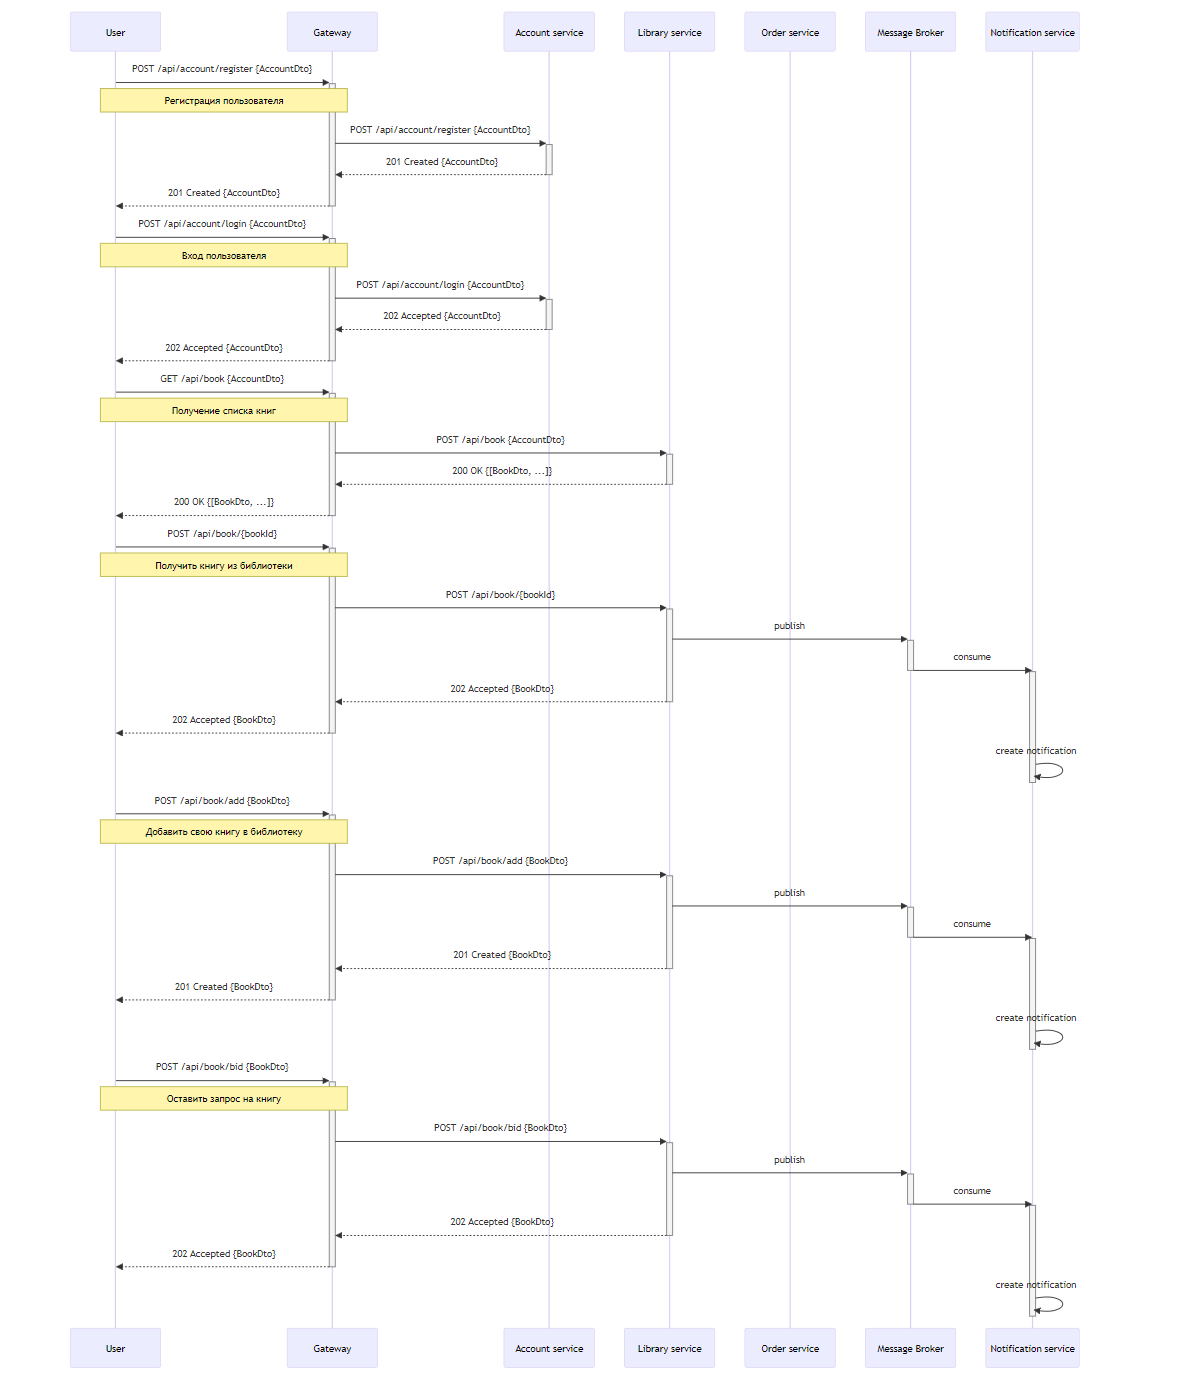
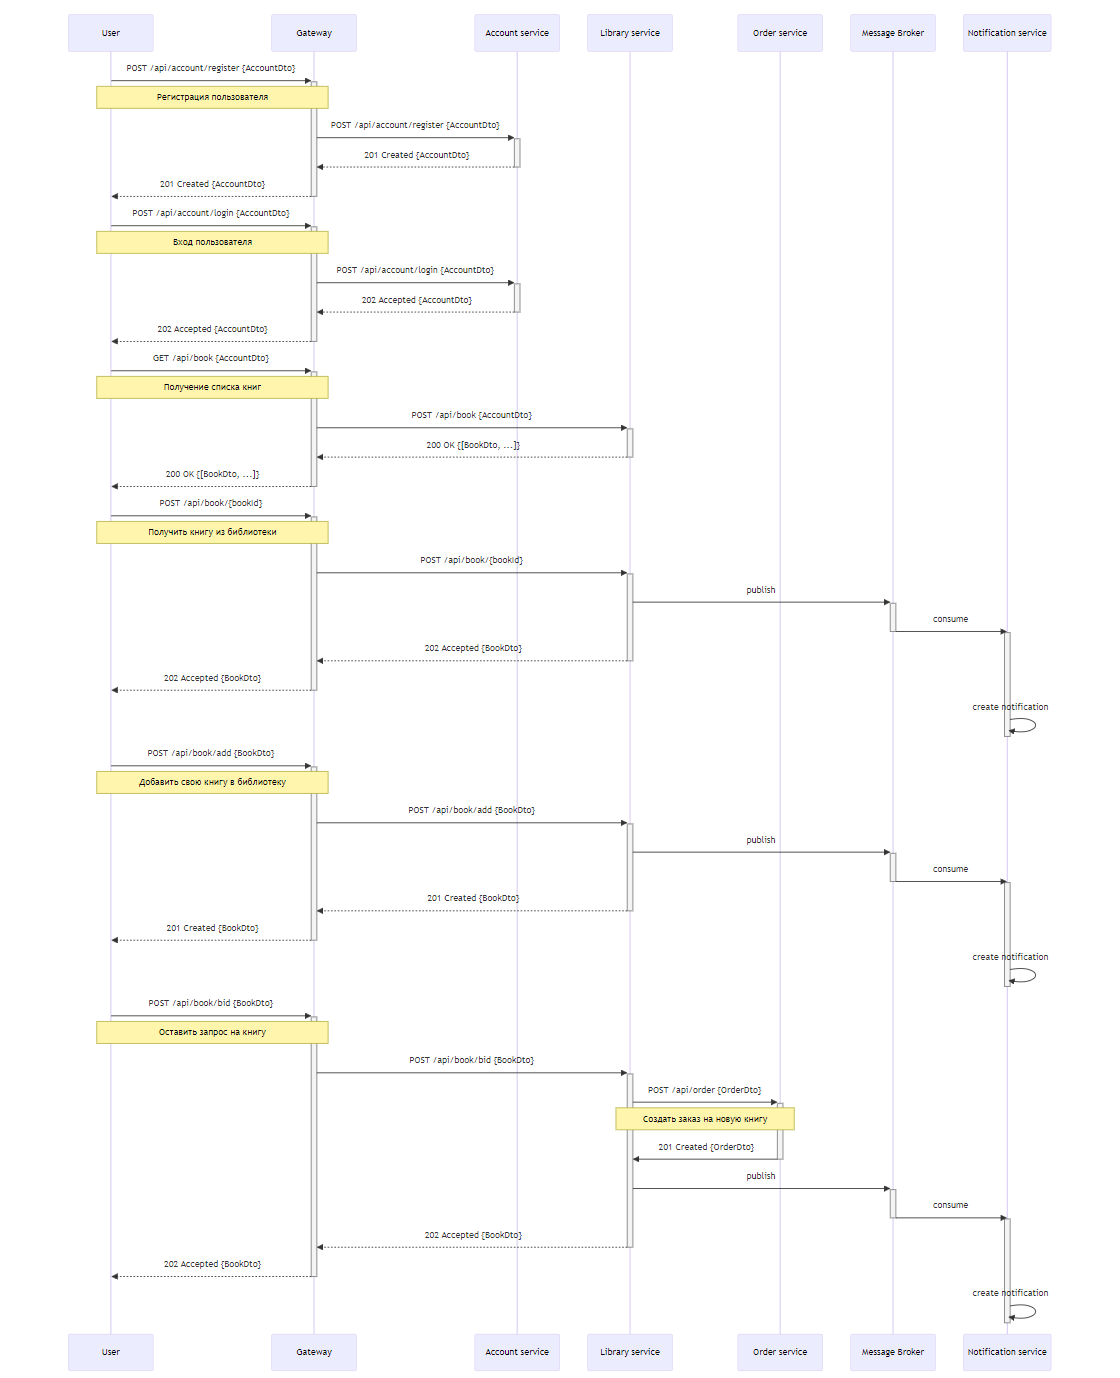
[hw01]: добавление заказ на книгу

diff --git a/hw01/README.assets/lib-mermaid-sequence.md b/hw01/README.assets/lib-mermaid-sequence.md
@@ -50,6 +50,9 @@ participant Notification service
     User->>+Gateway: POST /api/book/bid {BookDto}
     Note over User,Gateway: Оставить запрос на книгу 
     Gateway->>+Library service: POST /api/book/bid {BookDto}
+    Library service->>+Order service: POST /api/order {OrderDto}
+    Note over Library service,Order service: Создать заказ на новую книгу 
+    Order service->>-Library service: 201 Created {OrderDto}
     Library service->>+Message Broker: publish
     Message Broker->>-Notification service: consume
     activate Notification service
